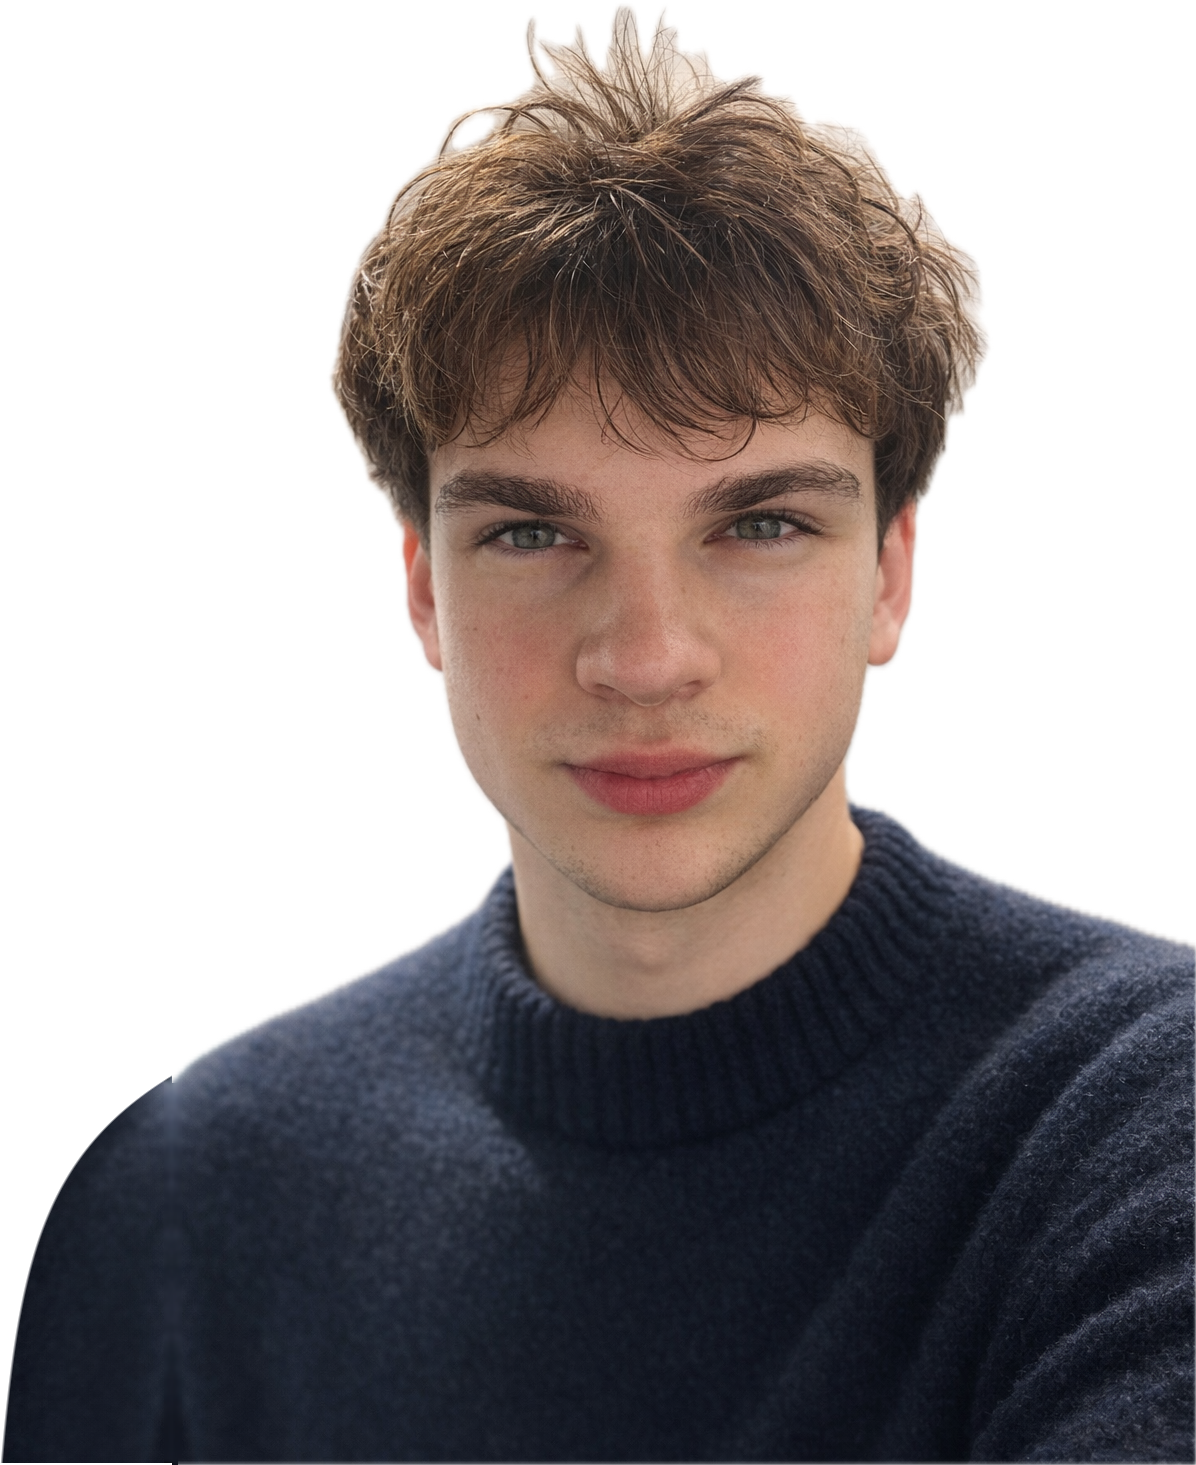
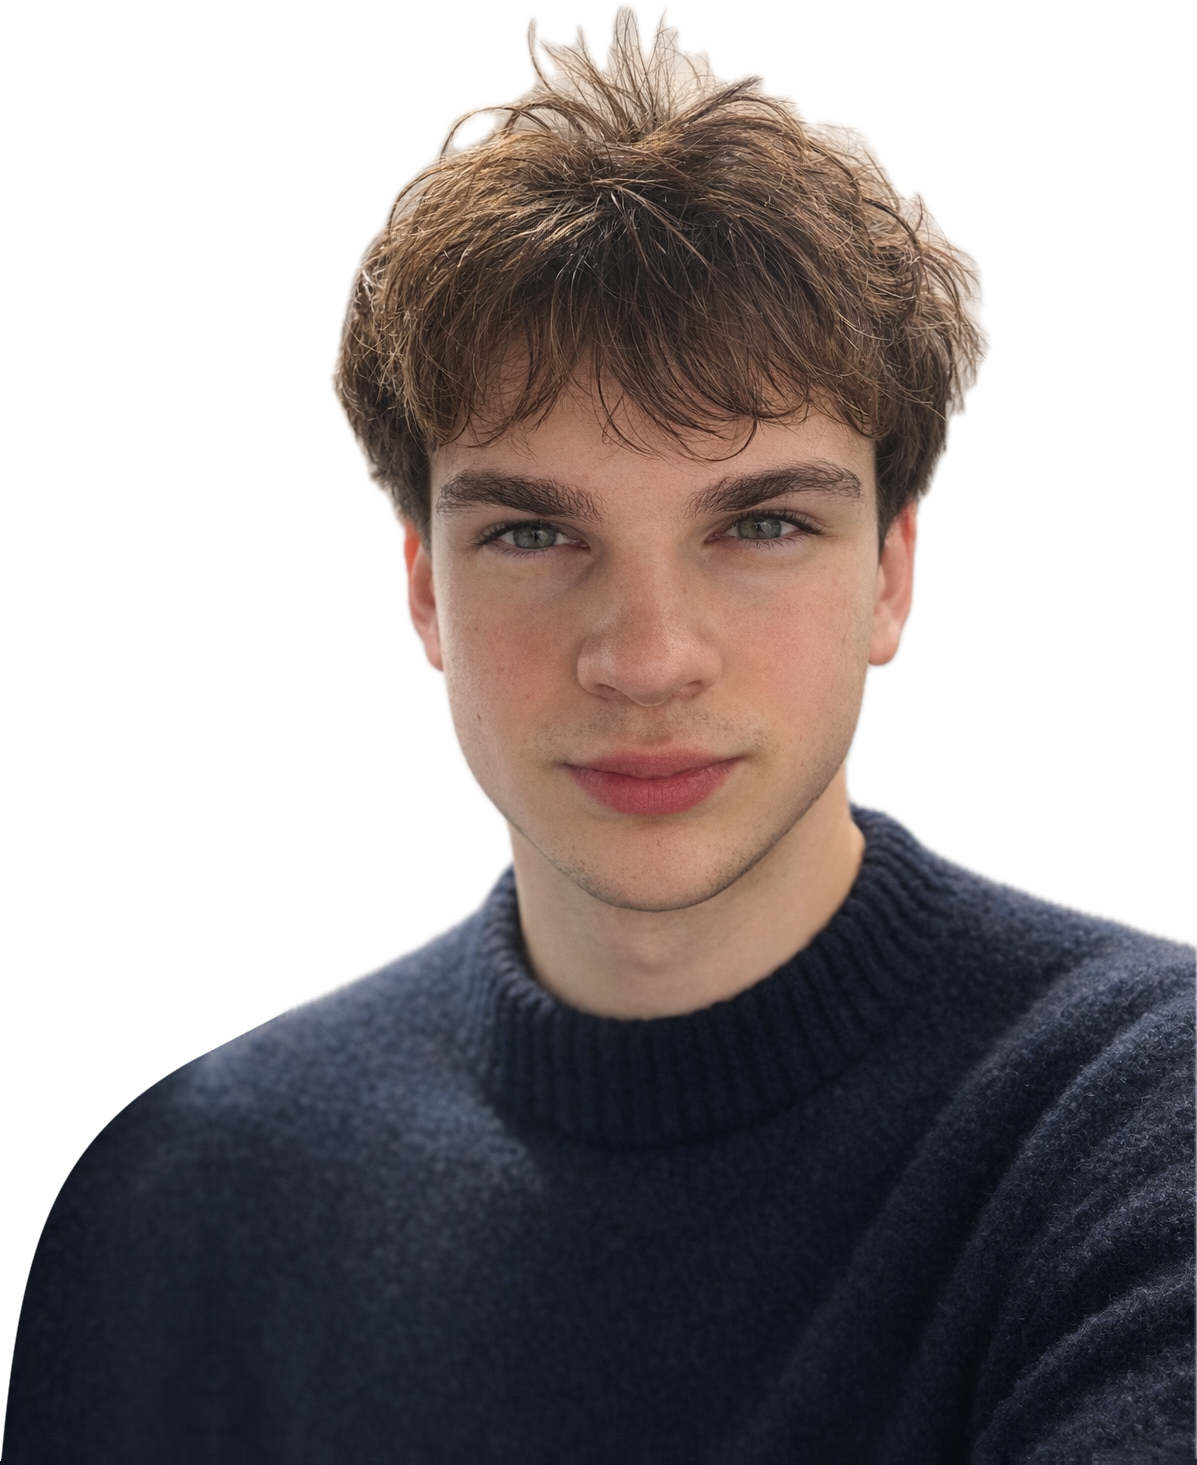
fix: raccord de l'épaule du portrait (contour continu, bas opaque sur le filet)

diff --git a/src/components/parcours/ParcoursHeader.tsx b/src/components/parcours/ParcoursHeader.tsx
@@ -10,7 +10,7 @@ export function ParcoursHeader() {
       <BigTitle as="h1" className="pc-head__title">
         Parcours
       </BigTitle>
-      <img className="pc-head__portrait" src={site.portrait.src} alt={site.portrait.alt} width={1195} height={1465} />
+      <img className="pc-head__portrait" src={site.portrait.src} alt={site.portrait.alt} width={1144} height={1400} />
     </header>
   );
 }
